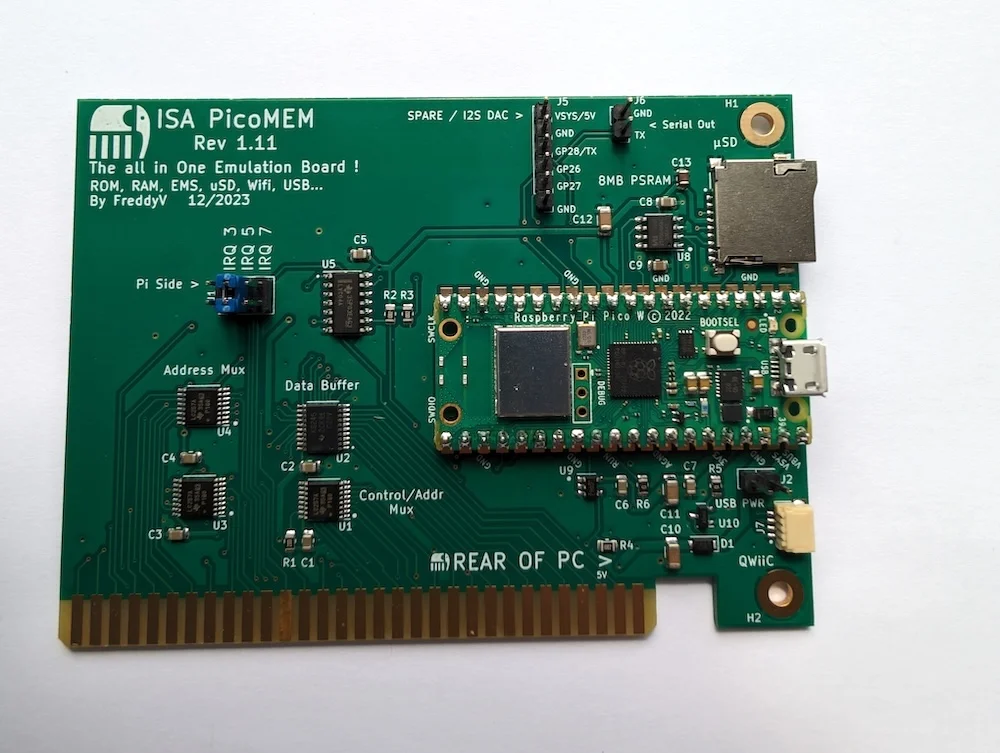
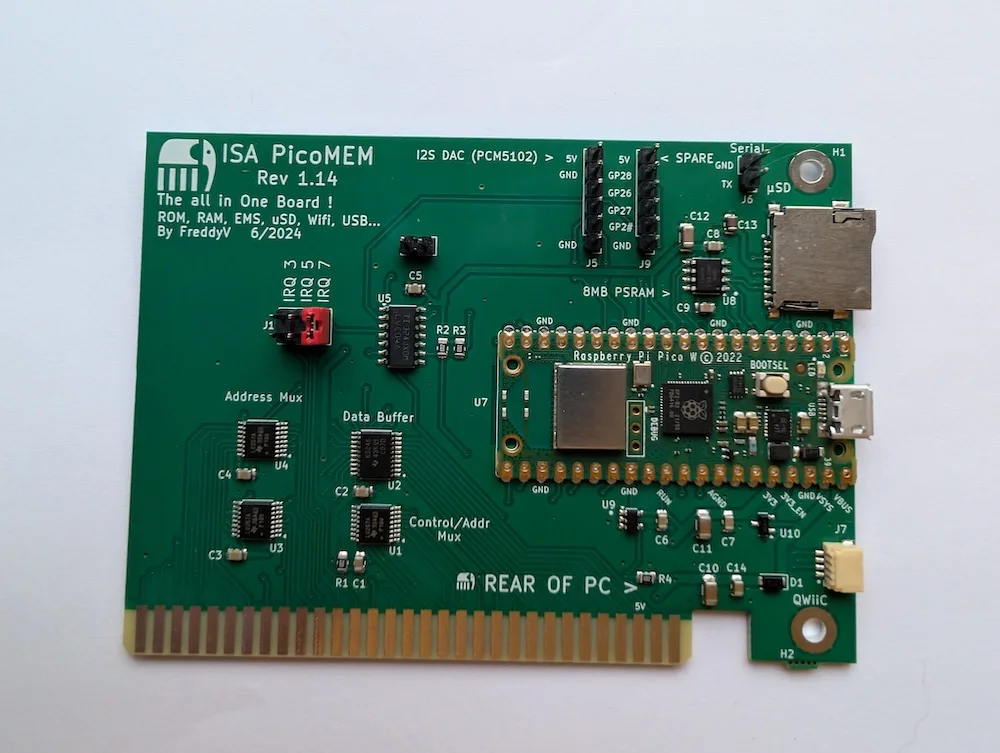
update picomem stuff

diff --git a/picomemrow.md b/picomemrow.md
@@ -5,9 +5,9 @@ title: PicoMEM All in One 8-Bit ISA Expansion Card ROW
 cart_itemid: picomemrow
 cart_name: "PicoMEM 8-bit ISA ROW"
 cart_description: "PicoMEM All in One 8-Bit ISA Expansion Card ROW"
-cart_price: 60
-cart_image: "assets/img/picomemfrontrow.webp"
-cart_image1: "assets/img/picomembare.webp"
+cart_price: 58
+cart_image: "assets/img/picomemfront.webp"
+cart_image1: "assets/img/adlibpicomem.webp"
 tags: 
   - pmrow
 ---
@@ -16,12 +16,12 @@ tags:
 
 {% include carousel2.html %}
 
-The PicoMEM is an 8-bit ISA expansion card based on the Raspberry Pi Pico microcontroller.  It offers a huge range of features and aims to be an all-in-one solution for ISA-based vintage PCs. The card fits all ISA slots fine without a bracket, but you can print a 3D verison from [here](https://github.com/FreddyVRetro/ISA-PicoMEM/tree/main/stl){:target="_blank"}. We don't supply a 3D printed bracket as it's not very hardy and in our experience breaks easily. We are looking into sourcing a metal bracket supplier for future. Your PicoMEM comes as default with a Pico W so NE2000 networking can be used straight away. Please make sure you test the Wifi functionality VERY close to the wifi router, since the Pico W does not have a wifi antenna.
+The PicoMEM is an 8-bit ISA expansion card based on the Raspberry Pi Pico microcontroller.  It offers a huge range of features and aims to be an all-in-one solution for ISA-based vintage PCs. The card fits all ISA slots fine without a bracket, but you can print a 3D version from [here](https://github.com/FreddyVRetro/ISA-PicoMEM/tree/main/stl){:target="_blank"}. We don't supply a 3D printed bracket as it's not very hardy and in our experience breaks easily. We are looking into sourcing a metal bracket supplier for future. Your PicoMEM comes as default with a Pico W so NE2000 networking can be used straight away. Please make sure you test the Wifi functionality VERY close to the wifi router, since the Pico W does not have a wifi antenna.
 
 * NE2000 Network Support emulation
 * Built-in MicroSD card reader
 * USB Mouse & Joystick Support
-* Latest Rev 1.11 PCB
+* Latest Rev 1.14 PCB
 * Pico W pre-flashed with latest firmware
 * Add an adLib audio board [here](/adlibpicomem)
 

diff --git a/picomemuk.md b/picomemuk.md
@@ -5,9 +5,9 @@ title: PicoMEM All in One 8-Bit ISA Expansion Card UK
 cart_itemid: picomemuk
 cart_name: "PicoMEM 8-bit ISA UK"
 cart_description: "PicoMEM All in One 8-Bit ISA Expansion Card UK"
-cart_price: 50
-cart_image: "assets/img/picomemfrontuk.webp"
-cart_image1: "assets/img/picomembare.webp"
+cart_price: 48
+cart_image: "assets/img/picomemfront.webp"
+cart_image1: "assets/img/adlibpicomem.webp"
 tags: 
   - pmuk
 ---
@@ -16,12 +16,12 @@ tags:
 
 {% include carousel2.html %}
 
-The PicoMEM is an 8-bit ISA expansion card based on the Raspberry Pi Pico microcontroller.  It offers a huge range of features and aims to be an all-in-one solution for ISA-based vintage PCs. The card fits all ISA slots fine without a bracket, but you can print a 3D verison from [here](https://github.com/FreddyVRetro/ISA-PicoMEM/tree/main/stl){:target="_blank"}. We don't supply a 3D printed bracket as it's not very hardy and in our experience breaks easily. We are looking into sourcing a metal bracket supplier for future. Your PicoMEM comes as default with a Pico W so NE2000 networking can be used straight away. Please make sure you test the Wifi functionality VERY close to the wifi router, since the Pico W does not have a wifi antenna.
+The PicoMEM is an 8-bit ISA expansion card based on the Raspberry Pi Pico microcontroller.  It offers a huge range of features and aims to be an all-in-one solution for ISA-based vintage PCs. The card fits all ISA slots fine without a bracket, but you can print a 3D version from [here](https://github.com/FreddyVRetro/ISA-PicoMEM/tree/main/stl){:target="_blank"}. We don't supply a 3D printed bracket as it's not very hardy and in our experience breaks easily. We are looking into sourcing a metal bracket supplier for future. Your PicoMEM comes as default with a Pico W so NE2000 networking can be used straight away. Please make sure you test the Wifi functionality VERY close to the wifi router, since the Pico W does not have a wifi antenna.
 
 * NE2000 Network Support emulation
 * Built-in MicroSD card reader
 * USB Mouse & Joystick Support
-* Latest Rev 1.11 PCB
+* Latest Rev 1.14 PCB
 * Pico W pre-flashed with latest firmware
 * Add an adLib audio board [here](/adlibpicomem)
 
